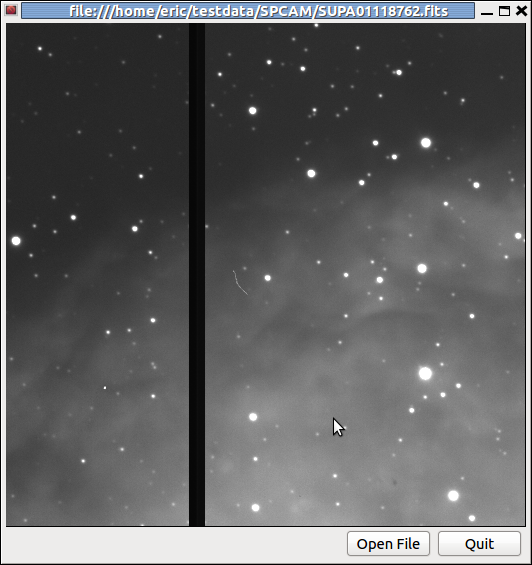
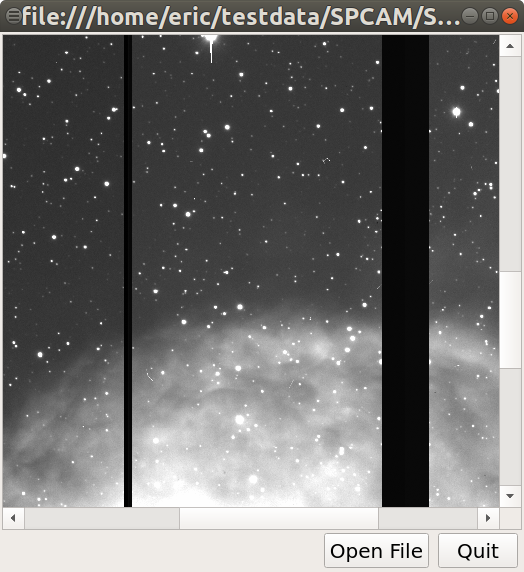
Fixes for sphinx errors and update text
- updated text with references to viewer API and better coding
  practices for recent versions of Ginga

diff --git a/ginga/examples/qt/example1_qt.py b/ginga/examples/qt/example1_qt.py
@@ -7,8 +7,7 @@ import sys
 from ginga import AstroImage
 from ginga.misc import log
 from ginga.qtw.QtHelp import QtGui, QtCore
-from ginga.qtw.ImageViewCanvasQt import ImageViewCanvas
-from ginga.qtw.ImageViewQt import ScrolledView
+from ginga.qtw.ImageViewQt import CanvasView, ScrolledView
 
 
 class FitsViewer(QtGui.QMainWindow):
@@ -18,14 +17,13 @@ class FitsViewer(QtGui.QMainWindow):
         self.logger = logger
 
         # create the ginga viewer and configure it
-        fi = ImageViewCanvas(self.logger, render='widget')
+        fi = CanvasView(self.logger, render='widget')
         fi.enable_autocuts('on')
         fi.set_autocut_params('zscale')
         fi.enable_autozoom('on')
         fi.set_callback('drag-drop', self.drop_file)
         fi.set_bg(0.2, 0.2, 0.2)
-        fi.ui_setActive(True)
-        fi.enable_draw(False)
+        fi.ui_set_active(True)
         self.fitsimage = fi
 
         # enable some user interaction

diff --git a/doc/dev_manual/viewer.rst b/doc/dev_manual/viewer.rst
@@ -23,16 +23,17 @@ that is described in more detail in the chapter on internals
 (see :ref:`ch-programming-internals`).
 The "view" classes are rooted in the base class ``ImageView``.
 Ginga supports backends for different widget sets through various
-subclasses of this class.
+subclasses of this class. 
 
 Typically, a developer picks a GUI toolkit that has a supported backend
 (Gtk 2/3, Qt 4/5, Tk, matplotlib, HTML5 canvas) and writes a GUI program
 using that widget set with the typical Python toolkit bindings and API.
 Where they want a image view pane they instantiate the appropriate
-subclass of ``ImageView``, and using the  ``get_widget()`` call extract
-the native widget and insert it into the GUI layout.  A reference should
-also be kept to the view object, as this is typically what you will be
-calling methods on to control the viewer.
+subclass of ``ImageView`` (usually a ``CanvasView``), and using the
+``get_widget()`` call extract the native widget and insert it into the
+GUI layout.  A reference should also be kept to the view object, as this
+is typically what you will be calling methods on to control the viewer
+(see :ref:`_ch-image-viewer-operations`).
 
 Ginga does not create any additional GUI components beyond the image
 pane itself, however it does provide a standard set of keyboard and
@@ -53,8 +54,8 @@ built in controls.
    A simple, "bare bones" FITS viewer written in Qt.
 
 Listing 1 shows a code listing for a simple graphical FITS
-viewer built using the subclass ``ImageViewCanvas`` from the module
-``ImageViewCanvasQt`` (screenshot in Figure :ref:`fig1`) written in
+viewer built using the subclass ``CanvasView`` from the module
+``ImageViewQt`` (screenshot in Figure :ref:`fig1`) written in
 around 100 or so lines of Python.  It creates a window containing an
 image view and two buttons.  This example will open FITS files dragged
 and dropped on the image window or via a dialog popped up when clicking
@@ -62,16 +63,17 @@ the "Open File" button.
 
 .. code-block:: python
 
+    #! /usr/bin/env python
     #
-    # example1_qt.py -- Simple FITS viewer using the Ginga toolkit and Qt widgets.
+    # example1_qt.py -- Simple FITS viewer using the Ginga toolkit
+    #                       and Qt widgets.
     #
-    import sys, os
-    import logging
+    import sys
 
     from ginga import AstroImage
     from ginga.misc import log
     from ginga.qtw.QtHelp import QtGui, QtCore
-    from ginga.qtw.ImageViewCanvasQt import ImageViewCanvas
+    from ginga.qtw.ImageViewQt import CanvasView, ScrolledView
 
 
     class FitsViewer(QtGui.QMainWindow):
@@ -80,26 +82,30 @@ the "Open File" button.
             super(FitsViewer, self).__init__()
             self.logger = logger
 
-            fi = ImageViewCanvas(self.logger, render='widget')
+            # create the ginga viewer and configure it
+            fi = CanvasView(self.logger, render='widget')
             fi.enable_autocuts('on')
             fi.set_autocut_params('zscale')
             fi.enable_autozoom('on')
             fi.set_callback('drag-drop', self.drop_file)
             fi.set_bg(0.2, 0.2, 0.2)
-            fi.ui_setActive(True)
-            fi.enable_draw(False)
+            fi.ui_set_active(True)
             self.fitsimage = fi
 
+            # enable some user interaction
             bd = fi.get_bindings()
             bd.enable_all(True)
 
             w = fi.get_widget()
             w.resize(512, 512)
 
+            # add scrollbar interface around this viewer
+            si = ScrolledView(fi)
+
             vbox = QtGui.QVBoxLayout()
             vbox.setContentsMargins(QtCore.QMargins(2, 2, 2, 2))
             vbox.setSpacing(1)
-            vbox.addWidget(w, stretch=1)
+            vbox.addWidget(si, stretch=1)
 
             hbox = QtGui.QHBoxLayout()
             hbox.setContentsMargins(QtCore.QMargins(4, 2, 4, 2))
@@ -153,7 +159,7 @@ the "Open File" button.
         # ginga needs a logger.
         # If you don't want to log anything you can create a null logger by
         # using null=True in this call instead of log_stderr=True
-        logger = log.get_logger("example1", log_stderr=True)
+        logger = log.get_logger("example1", log_stderr=True, level=40)
 
         w = FitsViewer(logger)
         w.resize(524, 540)
@@ -167,12 +173,13 @@ the "Open File" button.
 
         app.exec_()
 
+
     if __name__ == '__main__':
         main(None, sys.argv[1:])
 
-
+    
 Looking at the constructor for this particular viewer, you can see where
-we create a ``ImageViewCanvas`` object.  On this object we enable automatic
+we create a ``CanvasView`` object.  On this object we enable automatic
 cut levels (using the 'zscale' algorithm), configure it to auto zoom the
 image to fit the window and set a callback function for files dropped on
 the window.  We extract the user-interface bindings with
@@ -188,12 +195,14 @@ method to get the data into the viewer.  As shown, load_file creates
 an ``AstroImage`` object (the "model" part of our MVC design).  It then
 passes this object to the viewer via the set_image() method.
 ``AstroImage`` objects have methods for ingesting data via a file path, an
-``astropy.io.fits`` HDU or a bare ``Numpy`` data array.
+``astropy.io.fits`` HDU or a bare ``Numpy`` data array.  For a reference
+on the model, see here:ref:`_ch-image-data-wrappers`.
 
 Many of these sorts of examples for all supported backends are contained
 in the ``examples`` directory in the source distribution.
 
-For a list of many methods provided by the viewer object, click on the
+For a list of many methods provided by the viewer object see
+this reference:ref:`_ch-image-viewer-operations`.  You can also click on the
 module index link at the top of this chapter and then click on the link
 for ``ImageViewBase``.
 
@@ -207,9 +216,9 @@ Graphics plotting with Ginga
    :scale: 100%
    :figclass: h
 
-   An example of a ``ImageViewCanvas`` widget with graphical overlay.
+   An example of a ``CanvasView`` widget with graphical overlay.
 
-An ``ImageViewCanvas`` actually combines a view with a canvas object (in
+A ``CanvasView`` actually pairs a view with a canvas object (in
 particular a ``DrawingCanvas`` object).  You can get more detail about
 canvases and the objects they support (see :ref:`ch-canvas_graphics`).
 A variety of graphical shapes are available, and plotted objects scale,

diff --git a/doc/dev_manual/developers.rst b/doc/dev_manual/developers.rst
@@ -158,7 +158,7 @@ Manager bar.
             """
             This method is called when the plugin is loaded for the  first
             time.  ``fv`` is a reference to the Ginga (reference viewer) shell
-            and ``fitsimage`` is a reference to the specific ImageViewCanvas
+            and ``fitsimage`` is a reference to the specific viewer
             object associated with the channel on which the plugin is being
             invoked.
             You need to call the superclass initializer and then do any local
@@ -312,11 +312,15 @@ reference viewer "shell" and the ginga display object respectively.
 To interact with the viewer you will be calling methods on one or both
 of these objects.
 
-The best way to get a feel for these APIs is to look at the source of
-one of the many plugins distributed with Ginga.  Most of them are not
-very long or complex.  Also, a plugin can include any Python
-packages or modules that it wants and programming one is essentially
-similar to writing any other Python program.
+The "fitsimage" object is the ginga image viewer object associated with
+the channel.  You can get a good idea of how to programmatically
+manipulate this viewer here :ref:`_ch-image-viewer-operations`
+and by browsing the source of the many plugins distributed with Ginga.
+Most of them are not very long or complex.  Also, a plugin can include
+any Python packages or modules that it wants and programming one is
+essentially similar to writing any other Python program.  We suggest
+picking a plugin that looks or does something similar to what you are
+interested in, copying it, and modifying it to fit your needs.
 
 Launching and Debugging Your Plugin
 -----------------------------------
@@ -360,12 +364,13 @@ the GUI or possibly under the Errors tab.
 
 .. note:: Ginga has a feature for quickly reloading plugins to
           facilitate rapid debugging cycles.  If it is not already
-          running, start the "Command" plugin
-          from the "Plugins" menu in the menu bar.  If your plugin
+          running, start the "Command Line" plugin
+          from the "Plugins->Debug" menu in the menu bar.  If your plugin
           launched (but has some error), make sure you have closed your
           plugin by right clicking (or Control + click on Mac touchpad)
           on the small box representing your plugin in the Plugin
-          Manager bar and selecting "Stop".  In the Command plugin, use
+          Manager bar and selecting "Stop".  In the Command Line plugin,
+          there is a small box labeled "Type command here:".  Use
           the command "reload_local <plugin_name>"--this will reload the
           python module representing your plugin and you should be able
           to immediately restart it using the Plugin Manager bar as
@@ -599,7 +604,7 @@ shown in :ref:`fig6`.
 
 This plugin shows a standard design pattern typical to local plugins.
 Often one is wanting to draw or plot something on top of the image
-below.  The ``ImageViewCanvas`` widget used by Ginga allows this to be
+below.  The ``CanvasView`` widget used by Ginga allows this to be
 done very cleanly and conveniently by adding a ``DrawingCanvas``
 object to the image and drawing on that.  Canvases can be layered on top
 of each other in a manner analogous to "layers" in an image editing
@@ -614,7 +619,7 @@ widget (but does not destroy the canvas).  ``pause()`` disables user
 interaction on the canvas and ``resume()`` reenables that interaction.
 ``redo()`` simply redraws the ruler with new measurements taken from any new
 image that may have been loaded.  In the ``__init__()`` method you will
-notice a ``setSurface()`` call that associates this canvas with a
+notice a ``set_surface()`` call that associates this canvas with a
 ``ImageView``-based widget--this is the key for the canvas to utilize WCS
 information for correct plotting.
 All the other methods shown are support methods for doing the ruler

diff --git a/doc/dev_manual/image_viewer.rst b/doc/dev_manual/image_viewer.rst
@@ -1,12 +1,20 @@
 .. _ch-image-viewer-operations:
 
-+++++++++++++++++++++++++++++
+*****************************
 Ginga Image Viewer Operations
-+++++++++++++++++++++++++++++
+*****************************
 
 This chapter describes the operations supported by the basic Ginga image
 viewer and how to access them programatically.  For all of these
 API examples we assume the viewer object is contained in variable ``v``.
+
+Manipulating the view, programatically
+======================================
+
+The sections below describe how to manipulate the view programatically.
+Many of the API calls simply set a value in the viewer's settings
+object; if so, we note the associated keyword for that setting.
+
 
 Loading the Viewer
 ==================
@@ -21,15 +29,6 @@ Once you have successfully loaded an image wrapper, you can set it into
 the image viewer::
 
   >>> v.set_image(img)
-
-
-======================================
-Manipulating the view, programatically
-======================================
-
-The sections below describe how to manipulate the view programatically.
-Many of the API calls simply set a value in the viewer's settings
-object; if so, we note the associated keyword for that setting.
 
 
 Scaling
@@ -83,7 +82,7 @@ means that no artificial limit will be imposed.
 
 
 Zooming
--------
+=======
 
 Although Ginga uses scale factors to accomplish image scaling, it also
 supports the concept of zooming via *levels*.  It does this by mapping a

diff --git a/doc/dev_manual/image_wrappers.rst b/doc/dev_manual/image_wrappers.rst
@@ -1,8 +1,8 @@
 .. _ch-image-data-wrappers:
 
-+++++++++++++++++++
+*******************
 Image Data Wrappers
-+++++++++++++++++++
+*******************
 
 The image viewer can load data in a number of formats, but all formats
 are wrapped with a class that corresponds to the *model* part of the
